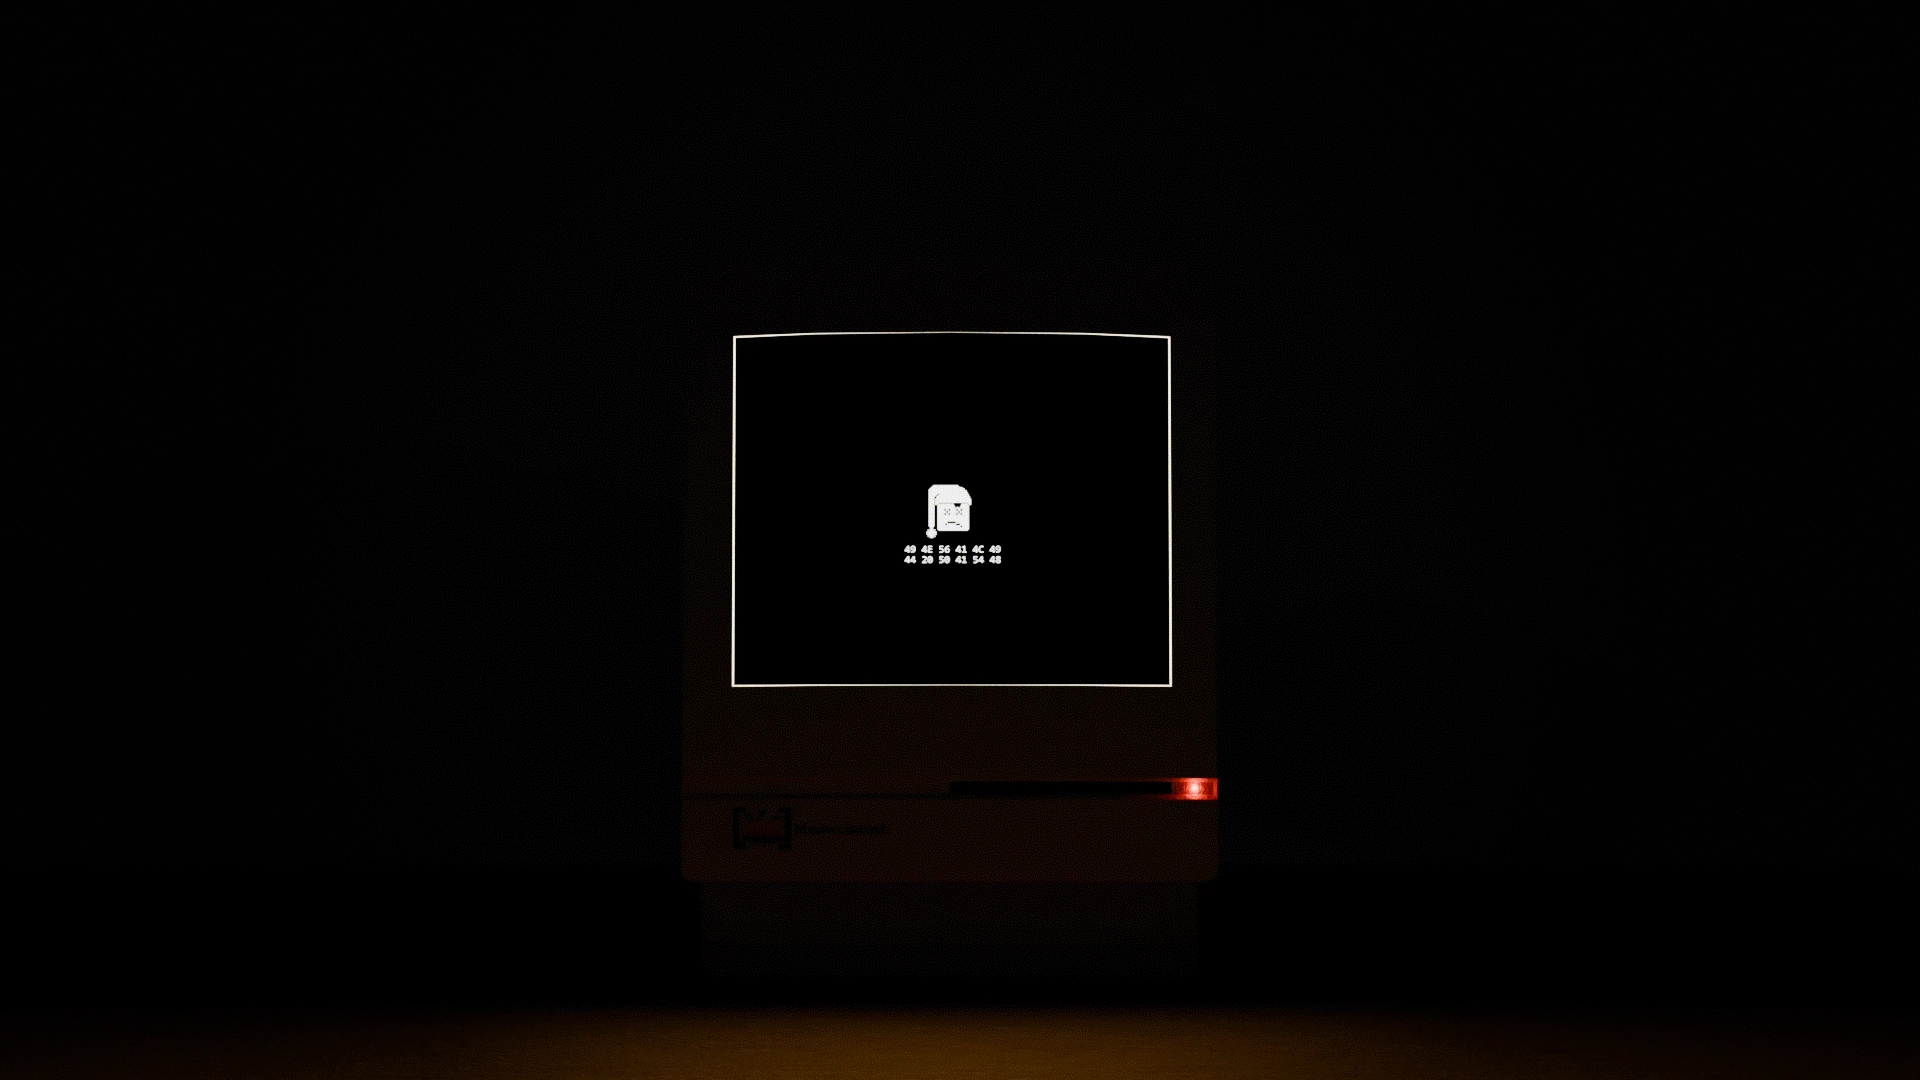
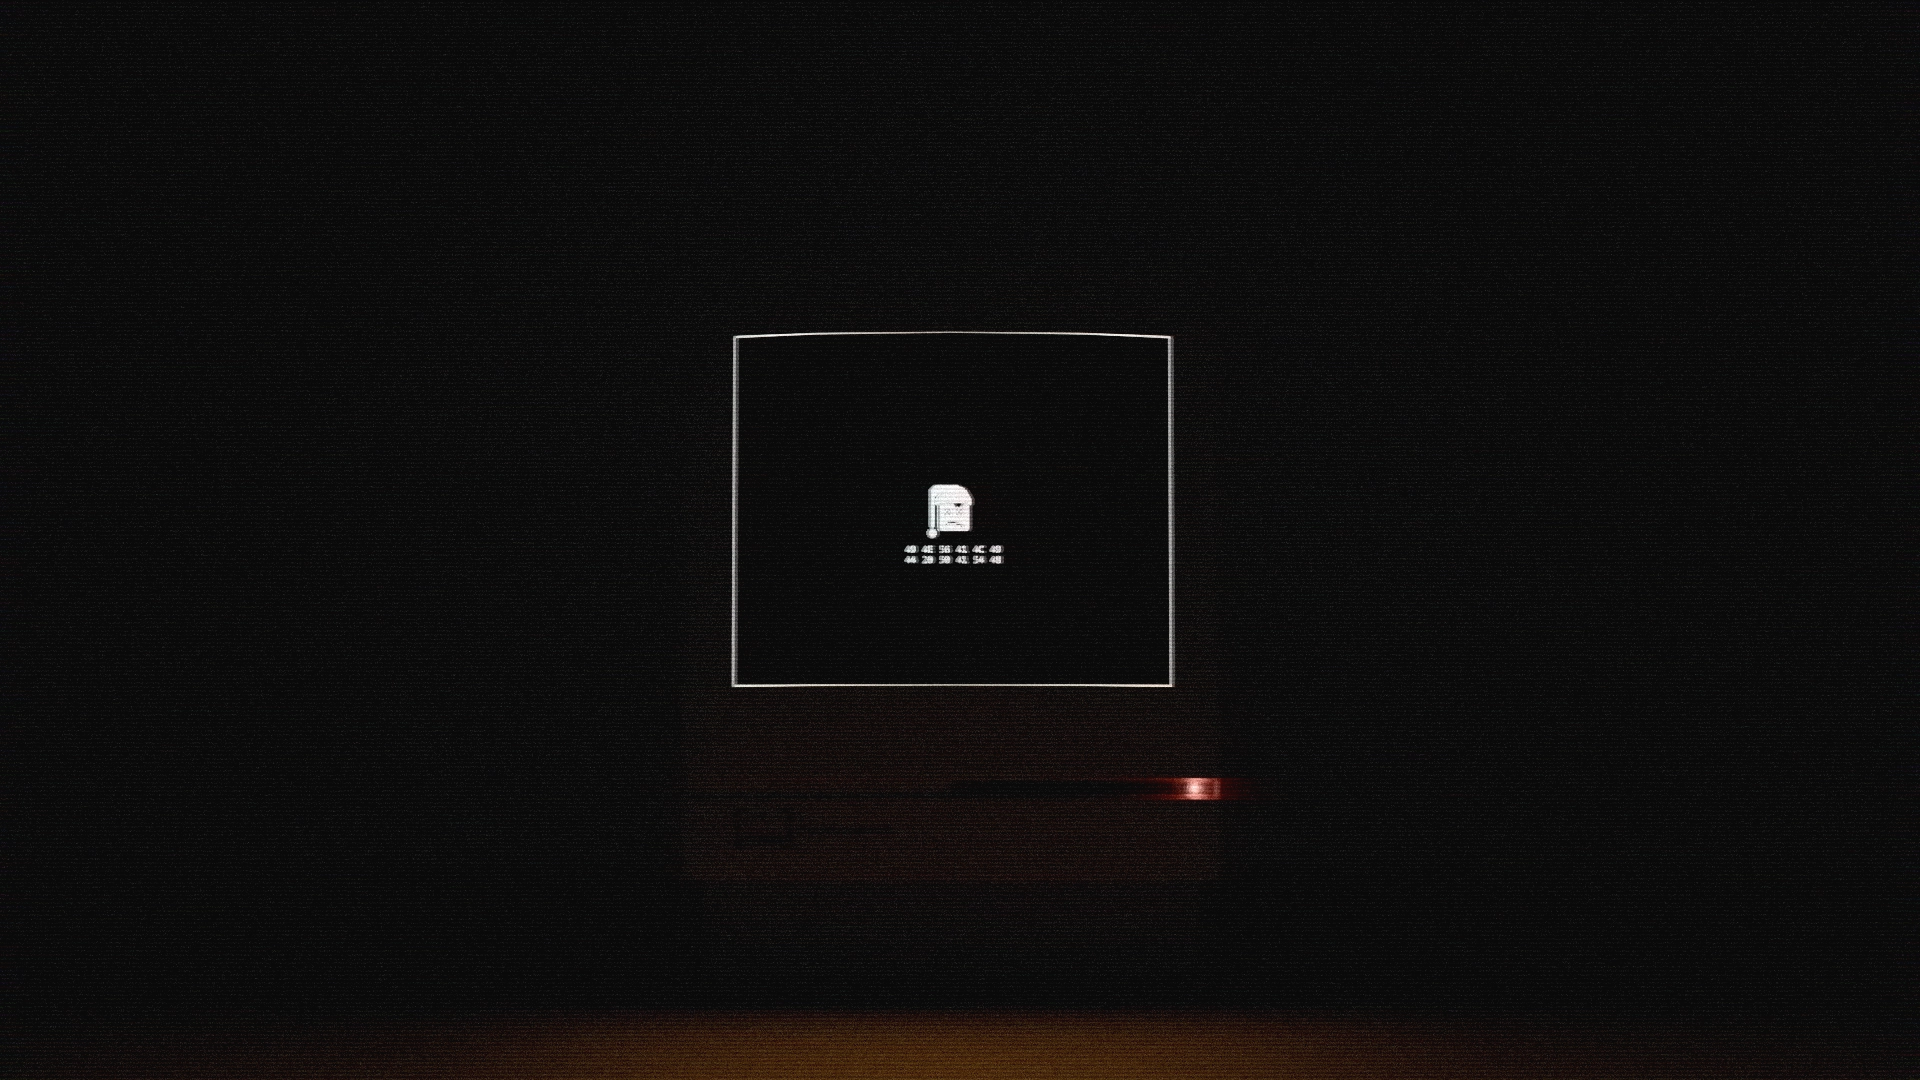
updated the 404 page

diff --git a/nilten/not_found.html b/nilten/not_found.html
@@ -11,10 +11,12 @@
     </head>
 <body onload="site_maintenanceMode()">
     <div style="text-align: center; margin-top: 100px;">
-        <h1 style="text-decoration: underline;">404.</h1>
-
-        <p>The Page you were trying to search for doesn't exist or has been deleted.</p>
-        <p>Sorry!</p>
+        <h1 style="font-size: 80px;">[<i>404.</i>]</h1>
+        <img src="../images/generic/text_decoration_01.webp" style="display: block; width: 356px; height: auto; margin: auto; transform: translateY(-45px);" draggable="false">
+    </div>
+    <div style="text-align: center; margin-top: 100px; font-size: x-large;">
+        <p>The Page you were trying to search for doesn't exist or has been deleted...</p>
+        <p>Sorry !</p>
     </div>
 <div id="nav-button-back-01" onclick="history.back()" style="position: absolute; bottom: 0; transform: translateY(-50px);"></div>
 </body>